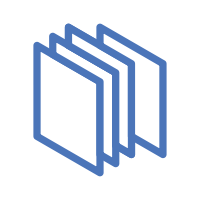
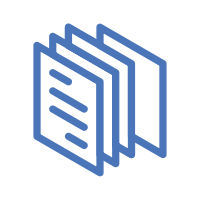
Update doc / Add text

Changed region(s): [[0.24, 0.33, 0.45, 0.75]]

diff --git a/included.go b/included.go
@@ -30,6 +30,10 @@ var included = []struct {
 			"d0 d1 g3 g7 h7 h2 d0",
 			"d0 d1 g3 g7 h7 h2 d0",
 			"f1 f2 h2 h6 j6 j1 f1",
+			"c2 d3",
+			"c3 e5",
+			"c4 e6",
+			"d6 e7",
 		},
 		[]string{},
 		[]string{"document"},
@@ -280,6 +284,18 @@ var included = []struct {
 		},
 		[]string{},
 		[]string{},
+	},
+	{
+		"text",
+		[]string{
+			"d1 d6 h8 h3 d1",
+			"e3 f4",
+			"e4 g5",
+			"e5 g6",
+			"f7 g7",
+		},
+		[]string{},
+		[]string{"page"},
 	},
 }
 

diff --git a/included.md b/included.md
@@ -12,12 +12,12 @@
 | cube5 | ![cube5](img/included/cube5.svg) | ![cube5](img/included/cube5.png) |
 | cubes | ![cubes](img/included/cubes.svg) | ![cubes](img/included/cubes.png) |
 | cubes2 | ![cubes2](img/included/cubes2.svg) | ![cubes2](img/included/cubes2.png) |
-| db ( img/included/db.png ) | ![db](img/included/db.svg) | ![db](img/included/db.png) |
-| doc ( img/included/doc.png ) | ![doc](img/included/doc.svg) | ![doc](img/included/doc.png) |
+| db ( database ) | ![db](img/included/db.svg) | ![db](img/included/db.png) |
+| doc ( document ) | ![doc](img/included/doc.svg) | ![doc](img/included/doc.png) |
 | gear | ![gear](img/included/gear.svg) | ![gear](img/included/gear.png) |
 | globe | ![globe](img/included/globe.svg) | ![globe](img/included/globe.png) |
-| hex ( img/included/hex.png ) | ![hex](img/included/hex.svg) | ![hex](img/included/hex.png) |
-| hex2 ( img/included/hex2.png ) | ![hex2](img/included/hex2.svg) | ![hex2](img/included/hex2.png) |
+| hex ( hexagon ) | ![hex](img/included/hex.svg) | ![hex](img/included/hex.png) |
+| hex2 ( hexagon2 ) | ![hex2](img/included/hex2.svg) | ![hex2](img/included/hex2.png) |
 | lb | ![lb](img/included/lb.svg) | ![lb](img/included/lb.png) |
 | lb-l4 | ![lb-l4](img/included/lb-l4.svg) | ![lb-l4](img/included/lb-l4.png) |
 | lb-l7 | ![lb-l7](img/included/lb-l7.svg) | ![lb-l7](img/included/lb-l7.png) |
@@ -25,3 +25,4 @@
 | proxy | ![proxy](img/included/proxy.svg) | ![proxy](img/included/proxy.png) |
 | shield | ![shield](img/included/shield.svg) | ![shield](img/included/shield.png) |
 | terminal | ![terminal](img/included/terminal.svg) | ![terminal](img/included/terminal.png) |
+| text ( page ) | ![text](img/included/text.svg) | ![text](img/included/text.png) |
